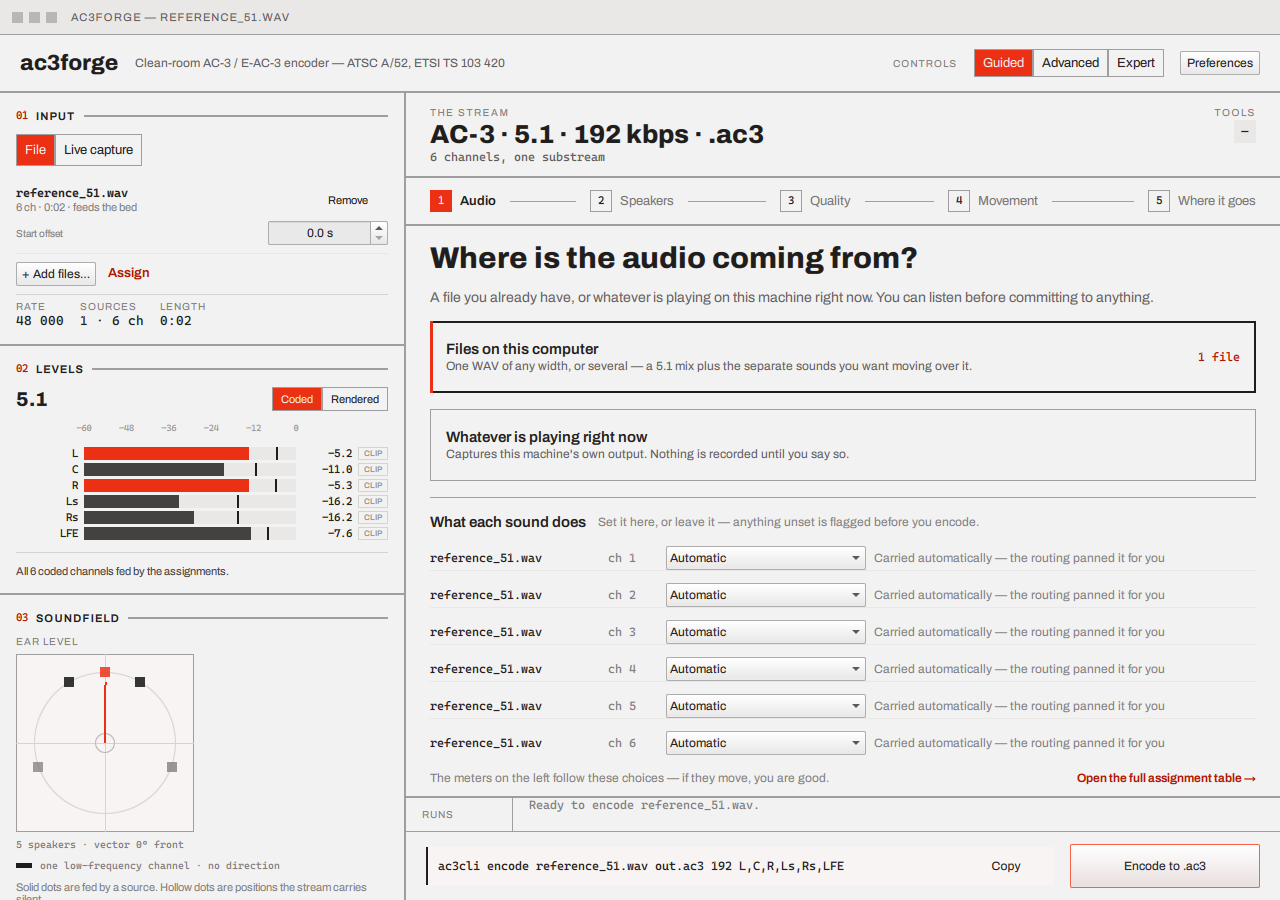
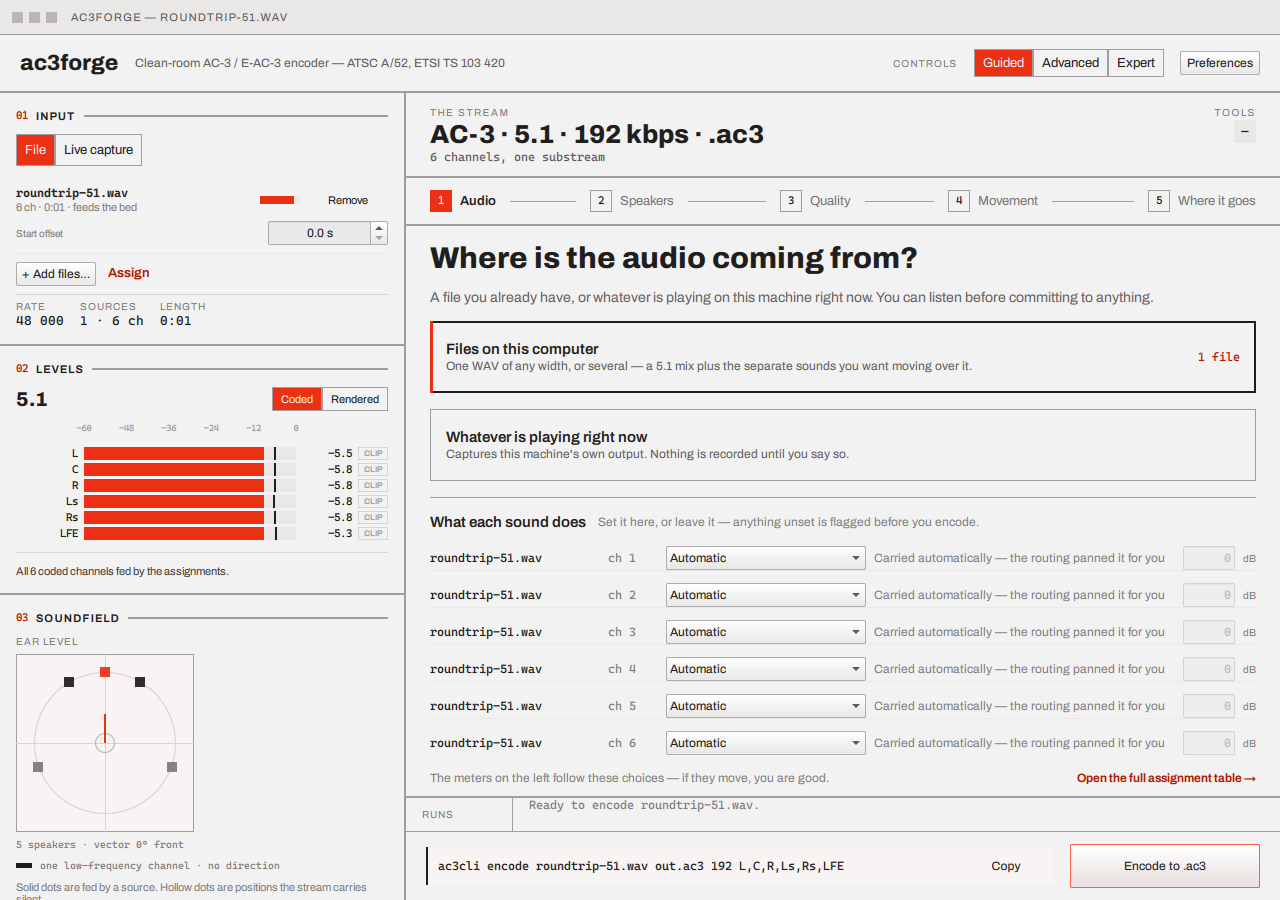
feat: give --smoke-shot scroll control, regenerate affected screenshots
--smoke-shot had no way to bring a below-the-fold section into frame - the
assignment table (with its new trim column from the previous commit) sits
well down the Format tab, out of reach of a fixed 900px window. Main.qml
gains a plain smokeScrollY property, bound onto the tab area's own
Flickable, that main.cpp's existing prop=value mechanism can already set
with no new C++ code at all.

Regenerates source-assignment.png (two sources, the assignment table with
its new trim field) and loading-a-source-loaded.png (a single loaded
source, showing the new rail-row level pip) - the two screenshots the
previous commit left stale for lack of this control.

diff --git a/src/gui/qml/Main.qml b/src/gui/qml/Main.qml
@@ -261,6 +261,22 @@ ApplicationWindow {
         currentTab = "format";
     }
 
+    // --smoke-shot's scroll control: a plain property, deliberately, so
+    // main.cpp's existing prop=value mechanism (apply_properties) can set it
+    // with no new C++ code at all - see that file's own top comment for the
+    // vocabulary this joins ("scrollY=650"). Pixels into the tab area's own
+    // scroll range, applied to tabScroll's underlying Flickable the moment
+    // it changes - ScrollView wraps a non-Flickable child (the tab
+    // StackLayout here) in one automatically, and that wrapper IS what
+    // contentItem resolves to in that case, so this needs no id on the
+    // Flickable itself, only on the ScrollView.
+    property real smokeScrollY: 0
+    onSmokeScrollYChanged: {
+        if (tabScrollView.contentItem) {
+            tabScrollView.contentItem.contentY = smokeScrollY;
+        }
+    }
+
     // ---- the panel banner: one of the three feedback homes -----------------
     property int bannerRunId: -1
     property int dismissedRunId: -1
@@ -2026,6 +2042,7 @@ ApplicationWindow {
 
                 // ---- tab content ------------------------------------------
                 ScrollView {
+                    id: tabScrollView
                     objectName: "tabScroll"
                     Layout.fillWidth: true
                     Layout.fillHeight: true

diff --git a/src/gui/main.cpp b/src/gui/main.cpp
@@ -32,7 +32,13 @@
 // declared Q_PROPERTY works: codecIndex=1, layoutIndex=5, coupling=true,
 // drcIndex=2, atmosEnabled=true, containerIndex=1, and (on the window itself)
 // tier=expert; preset=7.1.4 invokes applyChannelPreset() instead - see
-// apply_properties' own comment.
+// apply_properties' own comment. --smoke-shot in particular also takes
+// scrollY=<pixels> (a plain QML property on the window, Main.qml's own
+// smokeScrollY) to put a below-the-fold section - the assignment table
+// partway down the Format tab, say - into frame before the grab; there is
+// no scroll-to-item helper, just a raw pixel offset into the tab area's own
+// Flickable, so finding the right value is trial and error against a local
+// build.
 //
 // Both --smoke and --smoke-record fail unless every channel the routing FEEDS
 // has its needle leave the floor, so --smoke-record against a silent endpoint
